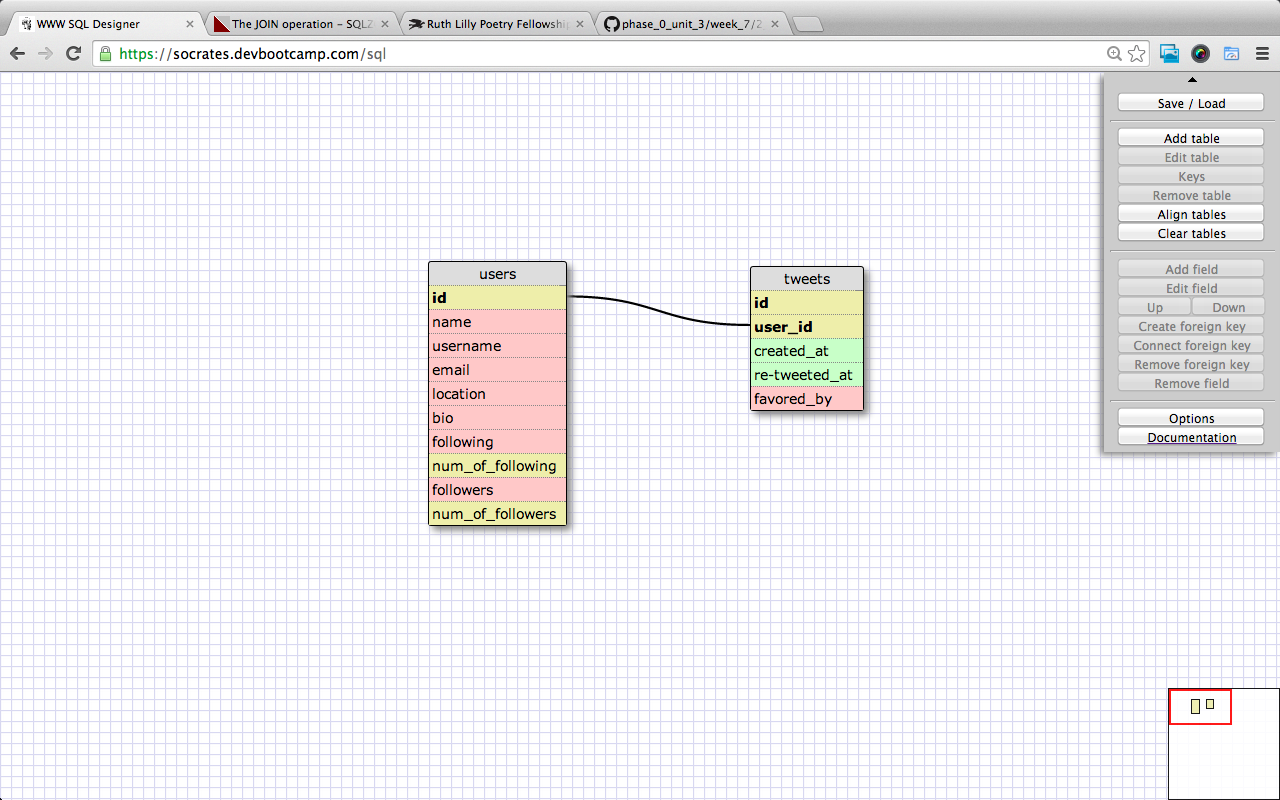
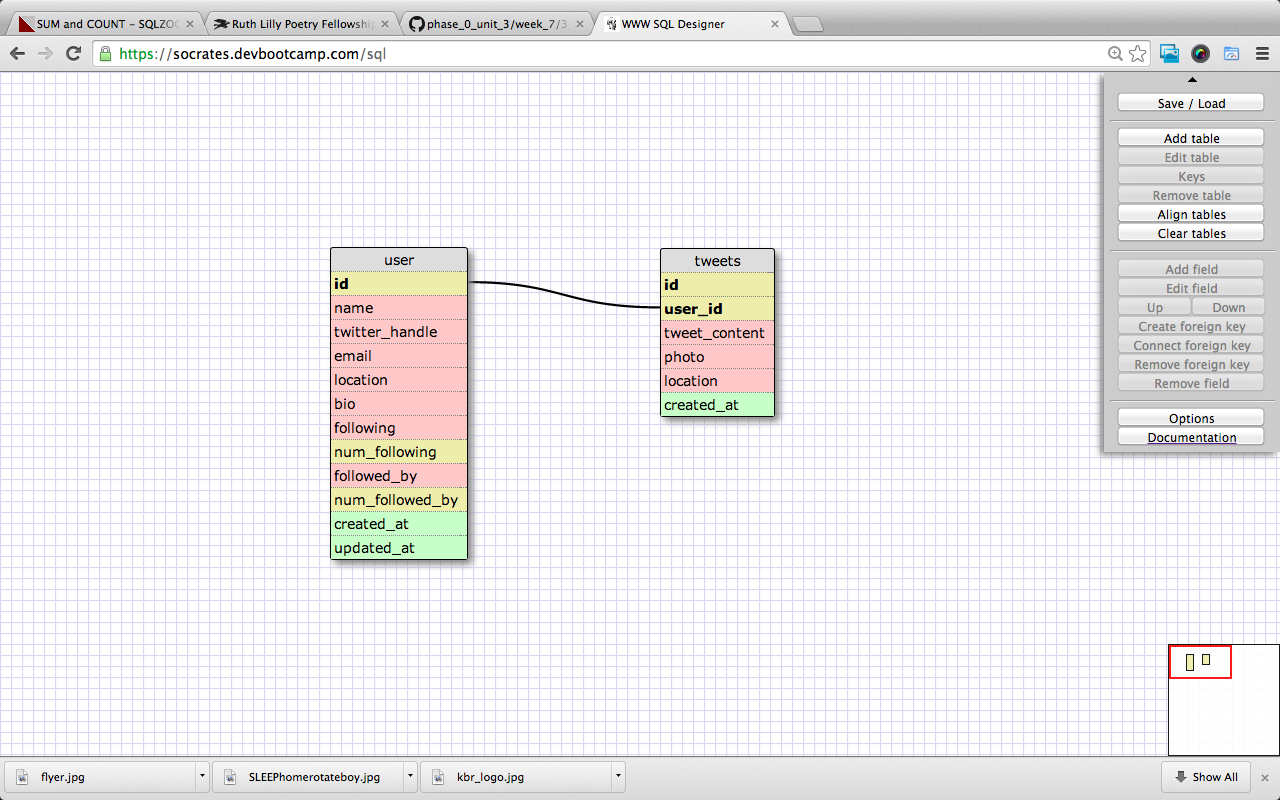
added stuff

diff --git a/week_7/3_model_one_to_many_solo_challenge/my_solution.md b/week_7/3_model_one_to_many_solo_challenge/my_solution.md
@@ -15,8 +15,8 @@
 ## Release 1: Tweet Fields
 
 1. Text (upto 140 characters, but at least 1 character)
-2. Reply to individual tweet
-3. Re-tweet individual tweet
+2. Photo
+3. Location
 
 ## Release 2: Explain the relationship
 The relationship between `users` and `tweets` is: 
@@ -28,6 +28,7 @@ Each user has many tweets, but each tweet belongs to only one user, so it's a on
 
 ## Release 4: SQL Statements
 <!-- Include your SQL Statements. How can you make markdown files show blocks of code? -->
+
 
 ## Release 5: Reflection
 <!-- Be sure to add your reflection here!!! -->
